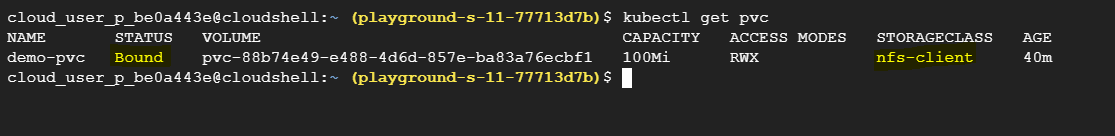
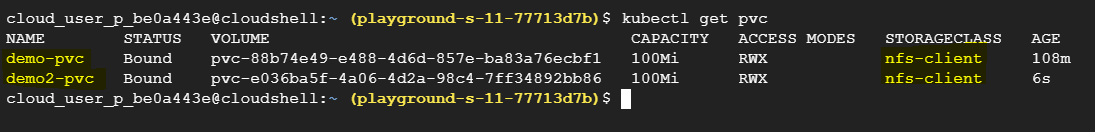
update

diff --git a/post/2024/01/gcp/nfs_provisioner/index.html b/post/2024/01/gcp/nfs_provisioner/index.html
@@ -61,7 +61,7 @@ However, there is a technique that can help you enable this functionality by usi
   "headline": "GCP - Share a single filestore instance across multiple pods using an external NFS provisioner",
   "description" : "By default, a single filestore instance cannot be shared across multiple pods in GCP. However, there is a technique that can help you enable this functionality by using an external NFS provisioner. The latter separates the PVC of each application by using a subdirectory.\n",
   "inLanguage" : "en",
-  "wordCount":  355 ,
+  "wordCount":  365 ,
   "datePublished" : "2024-01-07T00:00:00",
   "dateModified" : "2024-01-07T00:00:00",
   "image" : "https:\/\/blog.nhat-tong.com",
@@ -233,7 +233,7 @@ However, there is a technique that can help you enable this functionality by usi
     &nbsp;|&nbsp;<i class="fas fa-clock"></i>&nbsp;2&nbsp;minutes
   
   
-    &nbsp;|&nbsp;<i class="fas fa-book"></i>&nbsp;355&nbsp;words
+    &nbsp;|&nbsp;<i class="fas fa-book"></i>&nbsp;365&nbsp;words
   
   
   
@@ -313,13 +313,13 @@ helm install nfs-subdir-external-provisioner nfs-subdir-external-provisioner/nfs
 </span></code></pre></div><p>The value of provisioner attribute must match with the previously created <em>PROVISIONER_NAME</em> parameter.</p>
 <p><img src="../images/nfs-client-sc.png" alt="NFS Storage Class"></p>
 <h1 id="create-a-pvc">Create a PVC</h1>
-<p>Create a PVC using the StorageClass above:</p>
+<p>Create two examples PVC using the StorageClass above:</p>
 <div class="highlight"><pre class="chroma"><code class="language-YAML" data-lang="YAML"><span class="nt">kind</span><span class="p">:</span><span class="w"> </span><span class="l">PersistentVolumeClaim</span><span class="w">
 </span><span class="w"></span><span class="nt">apiVersion</span><span class="p">:</span><span class="w"> </span><span class="l">v1</span><span class="w">
 </span><span class="w"></span><span class="nt">metadata</span><span class="p">:</span><span class="w">
 </span><span class="w">  </span><span class="nt">name</span><span class="p">:</span><span class="w"> </span><span class="l">demo-pvc</span><span class="w">
 </span><span class="w">  </span><span class="nt">annotations</span><span class="p">:</span><span class="w">
-</span><span class="w">    </span><span class="nt">nfs.io/storage-path</span><span class="p">:</span><span class="w"> </span><span class="s2">&#34;demo&#34;</span><span class="w">
+</span><span class="w">    </span><span class="nt">nfs.io/storage-path</span><span class="p">:</span><span class="w"> </span><span class="s2">&#34;demo1&#34;</span><span class="w">
 </span><span class="w"></span><span class="nt">spec</span><span class="p">:</span><span class="w">
 </span><span class="w">  </span><span class="nt">storageClassName</span><span class="p">:</span><span class="w"> </span><span class="l">nfs-client</span><span class="w">
 </span><span class="w">  </span><span class="nt">accessModes</span><span class="p">:</span><span class="w">
@@ -327,8 +327,26 @@ helm install nfs-subdir-external-provisioner nfs-subdir-external-provisioner/nfs
 </span><span class="w">  </span><span class="nt">resources</span><span class="p">:</span><span class="w">
 </span><span class="w">    </span><span class="nt">requests</span><span class="p">:</span><span class="w">
 </span><span class="w">      </span><span class="nt">storage</span><span class="p">:</span><span class="w"> </span><span class="l">100Mi</span><span class="w">
-</span></code></pre></div><p><img src="../images/nfs-pvc.png" alt="Demo PVC"></p>
-<p>In this example, the PVC will be created in the filestore instance under the directory named <em>demo</em>.</p>
+</span><span class="w">
+</span><span class="w"></span><span class="nt">kind</span><span class="p">:</span><span class="w"> </span><span class="l">PersistentVolumeClaim</span><span class="w">
+</span><span class="w"></span><span class="nt">apiVersion</span><span class="p">:</span><span class="w"> </span><span class="l">v1</span><span class="w">
+</span><span class="w"></span><span class="nt">metadata</span><span class="p">:</span><span class="w">
+</span><span class="w">  </span><span class="nt">name</span><span class="p">:</span><span class="w"> </span><span class="l">demo2-pvc</span><span class="w">
+</span><span class="w">  </span><span class="nt">annotations</span><span class="p">:</span><span class="w">
+</span><span class="w">    </span><span class="nt">nfs.io/storage-path</span><span class="p">:</span><span class="w"> </span><span class="s2">&#34;test/demo2&#34;</span><span class="w">
+</span><span class="w"></span><span class="nt">spec</span><span class="p">:</span><span class="w">
+</span><span class="w">  </span><span class="nt">storageClassName</span><span class="p">:</span><span class="w"> </span><span class="l">nfs-client</span><span class="w">
+</span><span class="w">  </span><span class="nt">accessModes</span><span class="p">:</span><span class="w">
+</span><span class="w">    </span>- <span class="l">ReadWriteMany</span><span class="w">
+</span><span class="w">  </span><span class="nt">resources</span><span class="p">:</span><span class="w">
+</span><span class="w">    </span><span class="nt">requests</span><span class="p">:</span><span class="w">
+</span><span class="w">      </span><span class="nt">storage</span><span class="p">:</span><span class="w"> </span><span class="l">100Mi</span><span class="w">
+</span></code></pre></div><p><img src="../images/nfs-pvc.png" alt="Example PVCs"></p>
+<p>In this example:</p>
+<ul>
+<li>the first PVC will be created under the subdirectory named <strong>demo</strong></li>
+<li>the second PVC will be created under the subdirectory named <strong>test/demo2</strong>.</li>
+</ul>
 <p>You can modify the annotation <strong>nfs.io/storage-path</strong> to configure the directory in which the pvc will be created.</p>
 <p>If you want to go further, you can mount this filestore instance into a compute engine client to view your data:</p>
 <div class="highlight"><pre class="chroma"><code class="language-fallback" data-lang="fallback">sudo apt-get -y update &amp;&amp;

diff --git a/index.html b/index.html
@@ -257,7 +257,7 @@
     &nbsp;|&nbsp;<i class="fas fa-clock"></i>&nbsp;2&nbsp;minutes
   
   
-    &nbsp;|&nbsp;<i class="fas fa-book"></i>&nbsp;355&nbsp;words
+    &nbsp;|&nbsp;<i class="fas fa-book"></i>&nbsp;365&nbsp;words
   
   
   

diff --git a/post/index.html b/post/index.html
@@ -266,7 +266,7 @@
     &nbsp;|&nbsp;<i class="fas fa-clock"></i>&nbsp;2&nbsp;minutes
   
   
-    &nbsp;|&nbsp;<i class="fas fa-book"></i>&nbsp;355&nbsp;words
+    &nbsp;|&nbsp;<i class="fas fa-book"></i>&nbsp;365&nbsp;words
   
   
   

diff --git a/tags/filestore/index.html b/tags/filestore/index.html
@@ -203,7 +203,7 @@
     &nbsp;|&nbsp;<i class="fas fa-clock"></i>&nbsp;2&nbsp;minutes
   
   
-    &nbsp;|&nbsp;<i class="fas fa-book"></i>&nbsp;355&nbsp;words
+    &nbsp;|&nbsp;<i class="fas fa-book"></i>&nbsp;365&nbsp;words
   
   
   

diff --git a/tags/gcp/index.html b/tags/gcp/index.html
@@ -251,7 +251,7 @@
     &nbsp;|&nbsp;<i class="fas fa-clock"></i>&nbsp;2&nbsp;minutes
   
   
-    &nbsp;|&nbsp;<i class="fas fa-book"></i>&nbsp;355&nbsp;words
+    &nbsp;|&nbsp;<i class="fas fa-book"></i>&nbsp;365&nbsp;words
   
   
   

diff --git a/tags/nfs/index.html b/tags/nfs/index.html
@@ -203,7 +203,7 @@
     &nbsp;|&nbsp;<i class="fas fa-clock"></i>&nbsp;2&nbsp;minutes
   
   
-    &nbsp;|&nbsp;<i class="fas fa-book"></i>&nbsp;355&nbsp;words
+    &nbsp;|&nbsp;<i class="fas fa-book"></i>&nbsp;365&nbsp;words
   
   
   
